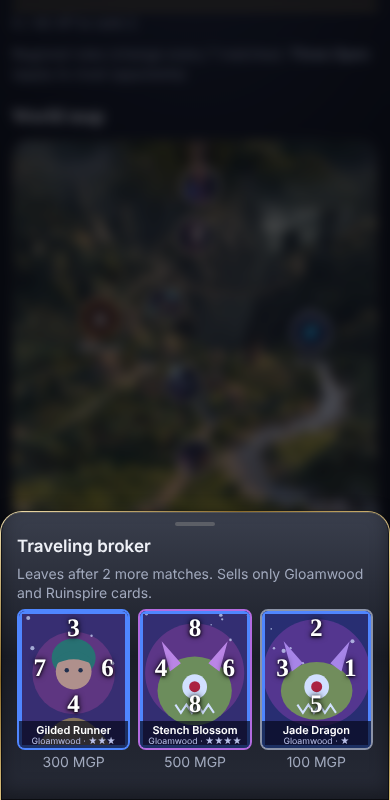
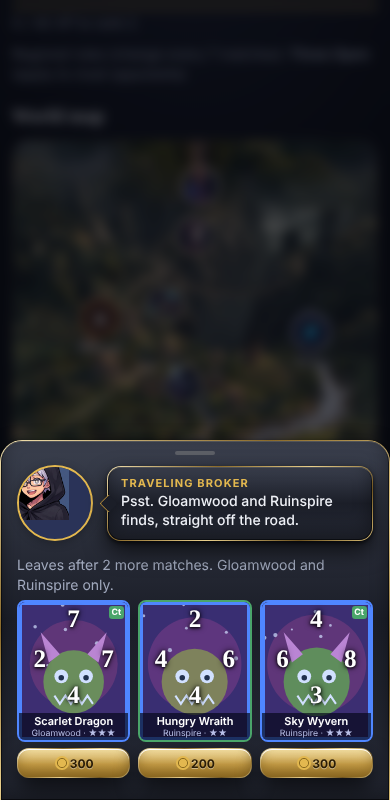
Traveling broker sheet styled like the card shop, with six broker portraits
The broker popup uses the shopkeeper layout: portrait and speech bubble at
the top, then three card tiles with gold price buttons. Portrait mood follows
the broker's state: hello on arrival, pleased after a sale, sorry when the
player is short on MGP. Sold slots show a dashed placeholder.

Claude-Session: https://claude.ai/code/session_01Gg52idu1JMuwzFjidsHwhf

Changed region(s): [[0.0, 0.5312, 1.0, 1.0]]

diff --git a/index.html b/index.html
@@ -363,6 +363,12 @@ button.pri,.sbtn.pri,.sheet button.pri,.tstart{background:var(--gf) padding-box,
 #bd.mt-E{background:radial-gradient(circle at 50% 50%,#2a1648 0%,#120a22 60%,#07040f 100%)!important;border:1.5px solid #8a5cd6!important;box-shadow:0 0 26px rgba(138,92,214,.35),inset 0 0 40px #000!important}
 #bd.mt-E .cell:empty:not(.ok){background:rgba(20,10,40,.7)!important;border:1px solid #6a46b0!important;box-shadow:inset 0 0 14px #5b2fa066,0 0 10px #8a5cd633!important}
 #bd.mt-B::after,#bd.mt-C::after,#bd.mt-D::after,#bd.mt-E::after{display:none}
+.bsheet .kface img{width:100%;height:100%;object-fit:cover}
+.bgrid{display:grid;grid-template-columns:1fr 1fr 1fr;gap:8px;margin-top:6px}
+.bcell{display:flex;flex-direction:column;align-items:center;gap:6px;min-width:0}
+.bcell .card{width:100%}
+.bbuy{width:100%;justify-content:center;padding:6px 4px;font-size:12px}
+.bsold{width:100%;aspect-ratio:5/7;border-radius:10px;display:grid;place-items:center;border:1.5px dashed #6b5628;color:#a1a9bd;font-size:11px}
 .pimg img[src$="027d77f95709ef5b.jpg"]{-webkit-mask-image:radial-gradient(ellipse 72% 70% at 50% 50%,#000 62%,transparent 100%);mask-image:radial-gradient(ellipse 72% 70% at 50% 50%,#000 62%,transparent 100%)}
 /* Cosmetics tab: two-column mat tiles */
 .cosg{display:grid;grid-template-columns:1fr 1fr;gap:10px;margin-top:8px}
@@ -604,9 +610,14 @@ const BROKER_G=['Gloamwood','Ruinspire'];
 const isBro=c=>BROKER_G.includes(c.g);
 function brokerStock(){const pool=CARDS.filter(isBro);return [0,1,2].map(()=>{let c=pool[Math.random()*pool.length|0];if(Math.random()<.25&&c.lv<5){const up=pool.filter(x=>x.lv===c.lv+1);if(up.length)c=up[Math.random()*up.length|0]}return c.id})}
 function brokerPrice(c){return 2*SELL[c.lv]}
-function brokerTick(){const B=P.bro||(P.bro={c:0,t:7+Math.floor(Math.random()*4),vis:0,left:0,stock:[]});if(B.vis){if(--B.left<=0){B.vis=0;B.c=0;B.t=7+Math.floor(Math.random()*4)}}else if(++B.c>=B.t){B.vis=1;B.left=3;B.stock=brokerStock()}save()}
-function buyBroker(i){const B=P.bro;if(!B||!B.vis)return;const id=B.stock[i];if(id==null)return;const c=CARDS[id],p=brokerPrice(c);if(P.gil<p)return;P.gil-=p;coll[id]=(coll[id]||0)+1;B.stock[i]=null;save();render()}
-function brokerSheet(){const B=P.bro,left=B.left;return `<div class="sheet-bg" onclick="S.broker=0;render()"></div><div class="sheet" role="dialog" aria-label="Traveling broker"><div class="grab"></div><h3>Traveling broker</h3><p class="sub">Leaves after ${left} more ${left===1?'match':'matches'}. Sells only Gloamwood and Ruinspire cards.</p><div class="grid g3">${B.stock.map((id,i)=>{if(id==null)return '<div class="sub" style="text-align:center">Sold</div>';const c=CARDS[id],p=brokerPrice(c),can=P.gil>=p;return `<div>${cardH(c,'p','',can?`onclick="buyBroker(${i})"`:'')}<p class="sub" style="text-align:center">${p} MGP${can?'':' · not enough MGP'}</p></div>`}).join('')}</div></div>`}
+function brokerTick(){const B=P.bro||(P.bro={c:0,t:7+Math.floor(Math.random()*4),vis:0,left:0,stock:[]});if(B.vis){if(--B.left<=0){B.vis=0;B.c=0;B.t=7+Math.floor(Math.random()*4)}}else if(++B.c>=B.t){B.vis=1;B.left=3;B.mood='hello';B.stock=brokerStock()}save()}
+function buyBroker(i){const B=P.bro;if(!B||!B.vis)return;const id=B.stock[i];if(id==null)return;const c=CARDS[id],p=brokerPrice(c);if(P.gil<p){B.mood='sorry';save();render();return}P.gil-=p;coll[id]=(coll[id]||0)+1;B.stock[i]=null;B.mood='pleased';save();render()}
+const COINB='<svg class="coin" viewBox="0 0 16 16" aria-hidden="true"><circle cx="8" cy="8" r="7" fill="#e3b84f"/><circle cx="8" cy="8" r="4.6" fill="none" stroke="#8a6a1f" stroke-width="1"/></svg>';
+const BKEEP={"smug": "assets/dd17c78bb9a547e1.jpg", "pleased": "assets/5b42b2535528f2c3.jpg", "happy": "assets/382fe61239327f6a.jpg", "hello": "assets/f94e165256098dd5.jpg", "sorry": "assets/693bcf91e5d1fd08.jpg", "think": "assets/f3635363a4ef759b.jpg"};
+const BLINE={hello:'Psst. Gloamwood and Ruinspire finds, straight off the road.',pleased:'A fine choice. Keep that one out of sight.',sorry:'Coin runs short on the road, friend. Come back when it doesn\'t.',gone:'Sold out. The road calls, traveler.'};
+function brokerSheet(){const B=P.bro,left=B.left,mood=B.mood||'hello',sold=B.stock.every(x=>x==null);
+const tiles=B.stock.map((id,i)=>{if(id==null)return '<div class="bcell"><div class="bsold">Sold</div></div>';const c=CARDS[id],pr=brokerPrice(c),can=P.gil>=pr;return `<div class="bcell">${cardH(c,'p','',can?`onclick="buyBroker(${i})"`:'')}<button class="sbtn ${can?'pri':''} bbuy" ${can?'':'disabled'} onclick="buyBroker(${i})">${COINB}${pr}</button></div>`}).join('');
+return `<div class="sheet-bg" onclick="S.broker=0;render()"></div><div class="sheet bsheet" role="dialog" aria-label="Traveling broker"><div class="grab"></div><section class="keeper"><div class="kface"><img alt="" src="${BKEEP[sold?'think':mood]}"></div><div class="kbub"><b>Traveling broker</b><p>${sold?BLINE.gone:BLINE[mood]}</p></div></section><p class="sub">Leaves after ${left} more ${left===1?'match':'matches'}. Gloamwood and Ruinspire only.</p><div class="bgrid">${tiles}</div></div>`}
 function topUp(){if(!P.st){P.st=1;const w=CARDS.find(c=>c.o==='Warrior of Light');if(w)delete coll[w.id];P.wol=1;save()}if(!P.fx){P.fx=1;delete coll[CARDS.find(c=>c.o==='Kefka').id];delete coll[CARDS.find(c=>c.o==='Tifa').id]}while(Object.keys(coll).length<10){const c=shuf(CARDS.filter(c=>c.lv<=2&&!coll[c.id]&&!isBro(c)))[0];coll[c.id]=1}if(P.gil<10)P.gil=10;save()}
 
 topUp();

diff --git a/tools/mat-mockup/shot-broker-sheet.js b/tools/mat-mockup/shot-broker-sheet.js
@@ -1,0 +1,19 @@
+const { chromium } = require('playwright');
+const path = require('path');
+(async () => {
+  const b = await chromium.launch();
+  const p = await b.newPage({ viewport: { width: 390, height: 800 } });
+  const errs = []; p.on('pageerror', e => errs.push(e.message));
+  await p.goto('file://' + path.resolve(__dirname, '../../index.html'));
+  await p.waitForTimeout(400);
+  await p.evaluate(() => { P.gil = 5000; P.testAll = 1; coll = {}; CARDS.filter(c => c.lv <= 1).slice(0, 5).forEach(c => coll[c.id] = 1); P.bro = { c: 0, t: 8, vis: 1, left: 2, mood: 'hello', stock: [0, 1, 2].map(() => CARDS.findIndex(c => isBro(c))) }; P.bro.stock = brokerStock(); save(); S.screen = 'menu'; render(); });
+  await p.locator('[aria-label="Traveling broker"]').first().click();
+  await p.waitForTimeout(600);
+  await p.screenshot({ path: path.join(__dirname, 'broker-sheet.png') });
+  await p.evaluate(() => buyBroker(0));
+  await p.waitForTimeout(400);
+  const mood = await p.evaluate(() => [P.bro.mood, P.bro.stock.filter(x => x == null).length, !!document.querySelector('.bsheet')]);
+  await p.screenshot({ path: path.join(__dirname, 'broker-sheet-after.png') });
+  console.log(JSON.stringify({ mood, errors: errs }));
+  await b.close();
+})().catch(e => { console.error(e); process.exit(1); });
